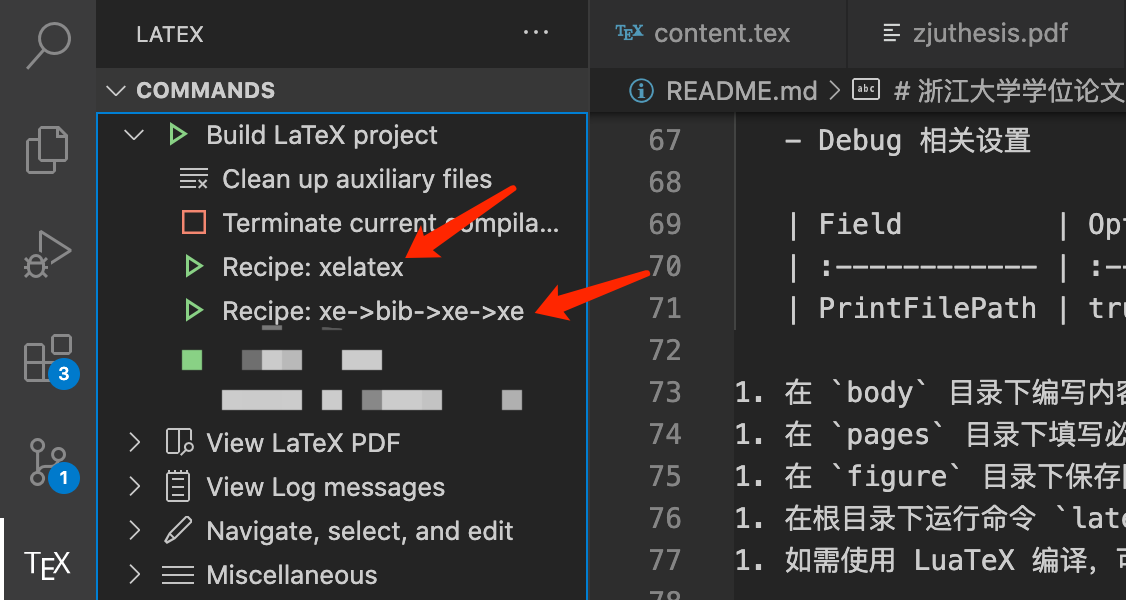
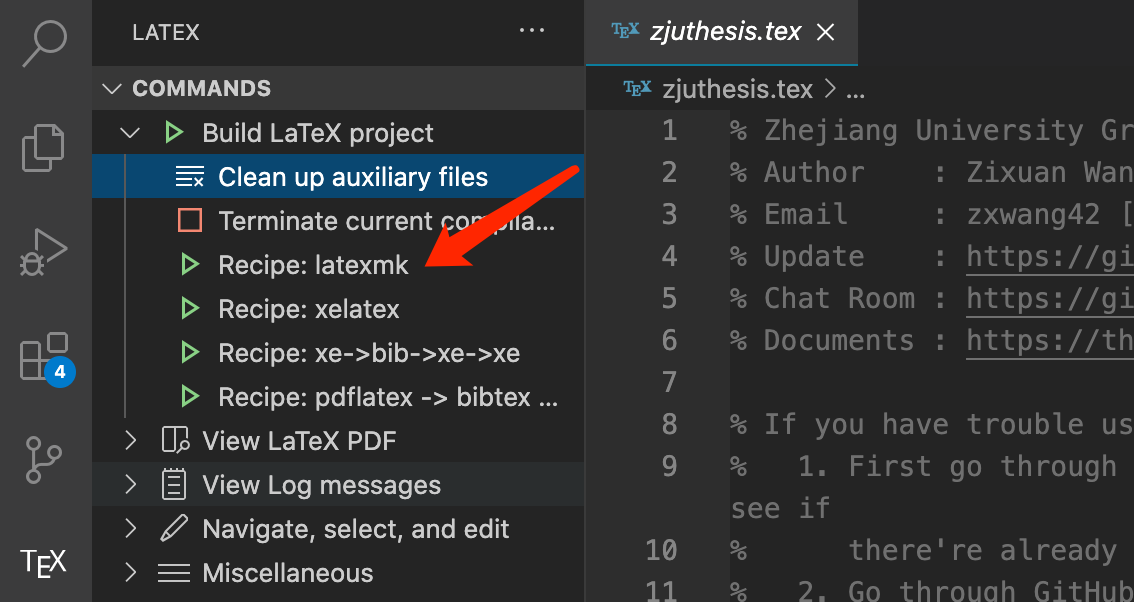
update latex_vscode

diff --git a/source/_posts/latex_vscode.md b/source/_posts/latex_vscode.md
@@ -12,9 +12,9 @@ Tex Live 2020
 VScode插件：Latex Workshop, Latex Utilities(用于统计字数)
 
 ## 参数配置
-在项目根目录创建.latexmkrc文件用于`latexmk`命令，内容如下
+在项目根目录创建`.latexmkrc`文件用于`latexmk`命令，内容如下
 ```sh
-$out_dir="out";
+$out_dir="./";
 $pdf_mode=5;
 $xelatex="xelatex -outdir=out";
 $xdvipdfmx="xdvipdfmx -q -E -o %D %O %S";
@@ -57,9 +57,20 @@ $makeindex = 'makeindex -s gind.ist %O -o %D %S';
         "args": [
             "%DOCFILE%"
         ]
+    },
+    {
+        "name": "latexmk",
+        "command": "latexmk",
+        "args": [] //请不要加参数，因为在.latexmkrc文件中已经定义了参数
     }
 ],
 "latex-workshop.latex.recipes": [ //这里的选项会出现插件中，方便点击使用
+    {
+        "name": "latexmk",
+        "tools": [
+            "latexmk"
+        ]
+    },
     {
         "name": "xelatex",
         "tools": [
@@ -106,7 +117,12 @@ $makeindex = 'makeindex -s gind.ist %O -o %D %S';
 
 ## 编译过程
 ### 方法一
-在根目录运行latexmk, 配置保存在.latexmkrc。
+在根目录运行
+```sh
+latexmk
+```
+注意：配置保存在.latexmkrc。
 ### 方法二
-在workshop插件中先运行xelatex，再运行xe->bib->xe->xe编译参考文献
-![](/images/posts/latex_vscode01.png)
+在workshop插件中运行latexmk（约25s), 推荐！！！
+![](/images/posts/latex_vscode01.png)  
+或者分两步进行，在workshop插件中先运行xelatex编译主体（<10s)，再运行xe->bib->xe->xe编译参考文献。
